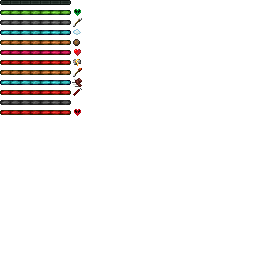
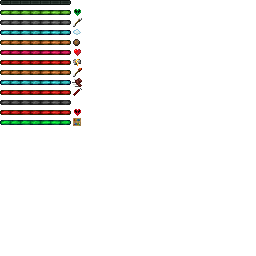
Added enchantling origin

Changed region(s): [[0.0, 0.4375, 0.3125, 0.5]]

diff --git a/src/main/java/consular/consularsorigins/mixin/EnchantmentScreenHandlerMixin.java b/src/main/java/consular/consularsorigins/mixin/EnchantmentScreenHandlerMixin.java
@@ -1,0 +1,39 @@
+package consular.consularsorigins.mixin;
+
+import org.spongepowered.asm.mixin.Mixin;
+import org.spongepowered.asm.mixin.injection.Inject;
+import org.spongepowered.asm.mixin.injection.callback.CallbackInfo;
+
+import consular.consularsorigins.common.ConsularsOrigins;
+import consular.consularsorigins.common.registry.ModPowers;
+
+import org.spongepowered.asm.mixin.injection.At;
+
+import net.minecraft.entity.player.PlayerEntity;
+import net.minecraft.entity.player.PlayerInventory;
+import net.minecraft.item.ItemStack;
+import net.minecraft.screen.EnchantmentScreenHandler;
+import net.minecraft.screen.ScreenHandlerContext;
+import net.minecraft.util.math.BlockPos;
+import net.minecraft.world.World;
+
+@Mixin(EnchantmentScreenHandler.class)
+public class EnchantmentScreenHandlerMixin {
+
+    private PlayerEntity enchanter;
+
+    @Inject(method = "<init>(ILnet/minecraft/entity/player/PlayerInventory;Lnet/minecraft/screen/ScreenHandlerContext;)V", at = @At("TAIL"))
+    private void saveEnchanterInHandler(int syncId, PlayerInventory playerInventory, ScreenHandlerContext context, CallbackInfo ci) {
+        this.enchanter = playerInventory.player;
+    }
+
+    @Inject(method = "method_17411", at = @At(value = "INVOKE", target = "Lnet/minecraft/screen/EnchantmentScreenHandler;generateEnchantments(Lnet/minecraft/item/ItemStack;II)Ljava/util/List;"))
+    private void saveEnchanterForPreview(ItemStack stack, World world, BlockPos pos, CallbackInfo ci) {
+        ConsularsOrigins.isEnchantlingEnchanting = ModPowers.BETTER_ENCHANTING.isActive(enchanter);
+    }
+
+    @Inject(method = "method_17410", at = @At(value = "INVOKE", target = "Lnet/minecraft/screen/EnchantmentScreenHandler;generateEnchantments(Lnet/minecraft/item/ItemStack;II)Ljava/util/List;"))
+    private void saveEnchanter(ItemStack itemStack, int id, PlayerEntity playerEntity, int level, ItemStack stack2, World world, BlockPos pos, CallbackInfo ci) {
+        ConsularsOrigins.isEnchantlingEnchanting = ModPowers.BETTER_ENCHANTING.isActive(playerEntity);
+    }
+}

diff --git a/src/main/java/consular/consularsorigins/common/registry/ModPowers.java b/src/main/java/consular/consularsorigins/common/registry/ModPowers.java
@@ -31,6 +31,8 @@ public class ModPowers {
 	public static final PowerFactory<Power> MOB_NEUTRALITY = create(new PowerFactory<>(new Identifier(ConsularsOrigins.MODID, "mob_neutrality"), new SerializableData().add("entity_types", SerializableDataType.list(SerializableDataTypes.ENTITY_TYPE)), data -> (type, entity) -> new MobNeutralityPower(type, entity, (List<EntityType<?>>) data.get("entity_types"))).allowCondition());
 
 	public static final PowerType<Power> ALL_THAT_GLITTERS = new PowerTypeReference<>(new Identifier(ConsularsOrigins.MODID, "all_that_glitters"));
+
+	public static final PowerType<Power> BETTER_ENCHANTING = new PowerTypeReference<>(new Identifier(ConsularsOrigins.MODID, "better_enchanting"));
 	
 	private static <T extends Power> PowerFactory<T> create(PowerFactory<T> factory) {
 		POWER_FACTORIES.put(factory, factory.getSerializerId());

diff --git a/src/main/java/consular/consularsorigins/mixin/EnchantmentHelperMixin.java b/src/main/java/consular/consularsorigins/mixin/EnchantmentHelperMixin.java
@@ -1,0 +1,23 @@
+package consular.consularsorigins.mixin;
+
+import org.spongepowered.asm.mixin.injection.At;
+import org.spongepowered.asm.mixin.injection.ModifyVariable;
+
+import consular.consularsorigins.common.ConsularsOrigins;
+
+import org.spongepowered.asm.mixin.Mixin;
+
+import net.minecraft.enchantment.EnchantmentHelper;
+
+@Mixin(EnchantmentHelper.class)
+public class EnchantmentHelperMixin {
+
+    @ModifyVariable(method = "generateEnchantments", at = @At(value = "INVOKE_ASSIGN", target = "Lnet/minecraft/item/Item;getEnchantability()I"), ordinal = 0)
+    private static int modifyEnchantabilityForClerics(int original) {
+        if(original > 0 && ConsularsOrigins.isEnchantlingEnchanting) {
+            ConsularsOrigins.isEnchantlingEnchanting = false;
+            return original + 10;
+        }
+        return original;
+    }
+}

diff --git a/src/main/java/consular/consularsorigins/common/ConsularsOrigins.java b/src/main/java/consular/consularsorigins/common/ConsularsOrigins.java
@@ -14,6 +14,8 @@ import net.minecraft.util.Identifier;
 
 public class ConsularsOrigins implements ModInitializer {
 	public static final String MODID = "consularsorigins";
+
+	public static boolean isEnchantlingEnchanting;
 	
 	public static final ItemGroup CONSULARS = FabricItemGroupBuilder.build(
 		new Identifier(MODID, "origins"),
